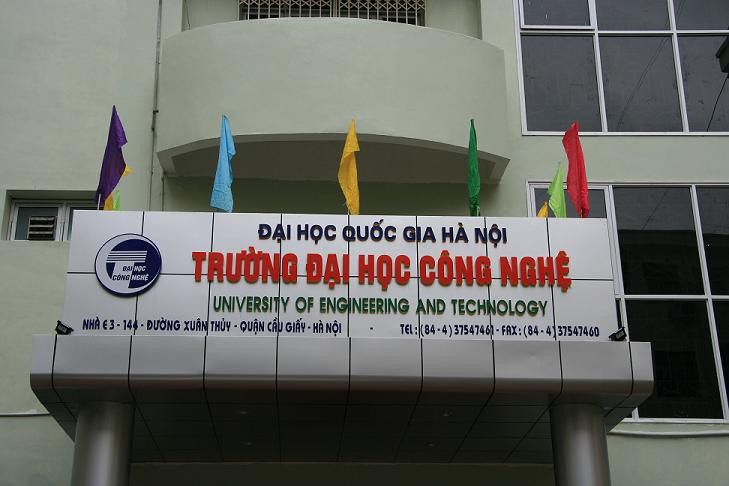
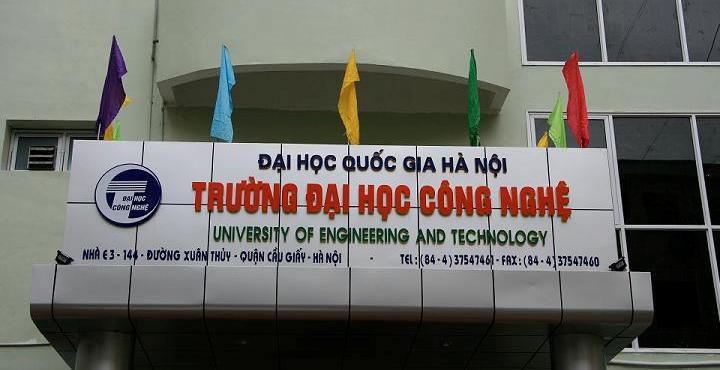
fix fix fix fix department!

diff --git a/protected/views/listOfSubject/departmenthtml.php b/protected/views/listOfSubject/departmenthtml.php
@@ -4,10 +4,10 @@
             <div class="w-gallery-main-h flexslider flex-loading">
                 <ul class="slides">
                     <li>
-                        <img width="728" height="410" alt="" src="<?php echo Yii::app()->theme->baseUrl; ?>/assets/img/demo/department_1.jpg" />
+                        <img width="720" height="370" alt="" src="<?php echo Yii::app()->theme->baseUrl; ?>/assets/img/demo/department_1.jpg" />
                     </li>
                     <li>
-                        <img width="728" height="410" alt="" src="<?php echo Yii::app()->theme->baseUrl; ?>/assets/img/demo/department_3.jpg" />
+                        <img width="720" height="370" alt="" src="<?php echo Yii::app()->theme->baseUrl; ?>/assets/img/demo/department_3.jpg" />
                     </li>
                 </ul>
                 <ul class="flex-direction-nav">

diff --git a/protected/views/share/teacher.php b/protected/views/share/teacher.php
@@ -68,7 +68,8 @@
                             </select>
                         </div>
                         &nbsp;
-                        </br>
+                        <div class="left"> Lượt like : </div>
+                        <br/>
                         <a href="<?php echo Yii::app()->createAbsoluteUrl('share/teacherListPage') ?>"><button class="g-btn type_outline size_small"><span>Danh sách giáo viên</span></button></a>
 
                         <div class="rounded1 color_alternate" style="margin-top: 20px; height: auto">
